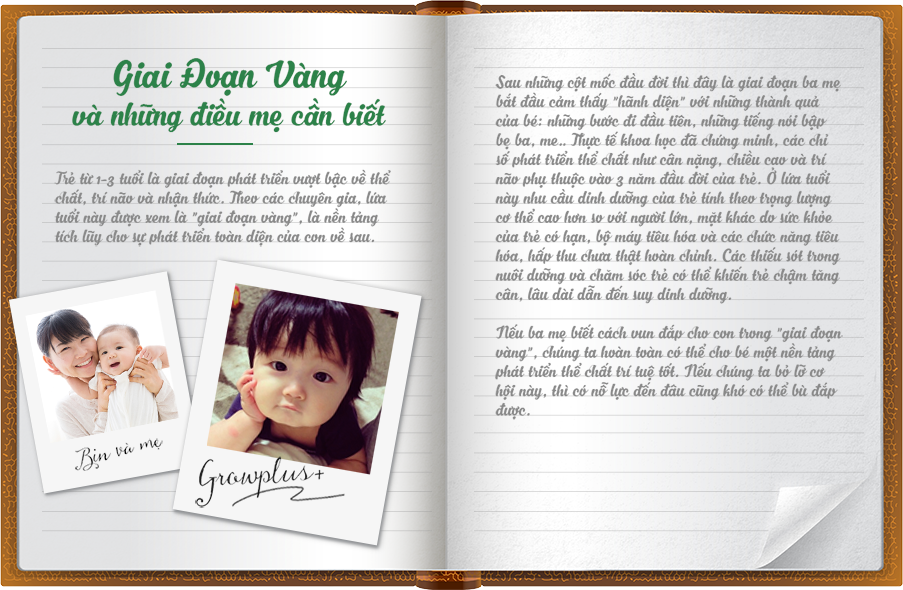
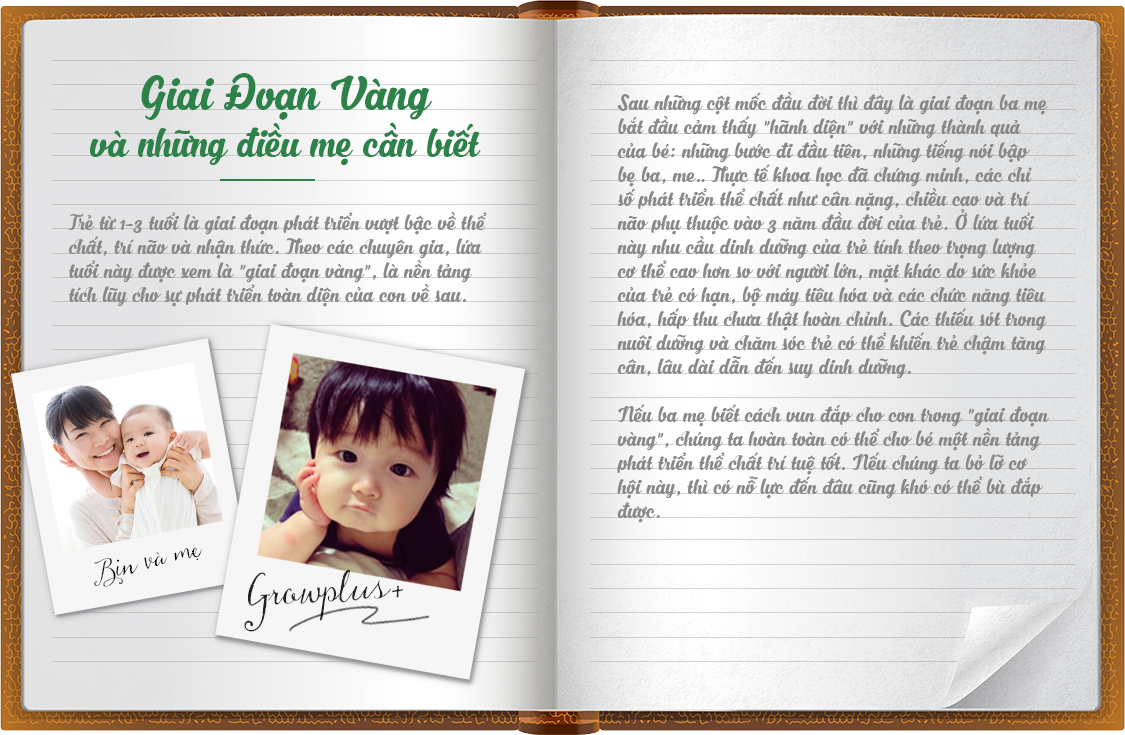
Update products link

diff --git a/less/golden-stage.less b/less/golden-stage.less
@@ -10,23 +10,76 @@
   background: transparent url(../images/golden-stage/expand.png) no-repeat;
 }
 
-.milk-product{
-  background: url("../images/golden-stage/milk-product.png") no-repeat center/ cover;
-  width: 279px;
-  height: 169px;
+.milk-product {
+  display: block;
+  bottom: 0;
+  left: 0;
   position: absolute;
-  bottom: -75px;
-  left: -155px;
-  z-index: 99;
-  &:after{
-    background: hsla(0, 0%, 0%, 0) url("../images/golden-stage/note2.png") no-repeat scroll center center / cover ;
+
+  &:before {
+    background: hsla(0, 0%, 0%, 0) url("../images/golden-stage/note2.png") no-repeat scroll center center / cover;
     content: "";
-    height: 72px;
-    left: 0;
-    position: absolute;
-    top: -50px;
-    width: 122px;
     display: block;
+    height: 72px;
+    left: -165px;
+    position: absolute;
+    top: -150px;
+    width: 122px;
+  }
+  .effect-after-milk {
+    background: hsla(0, 0%, 0%, 0) url("../images/golden-stage/after.png") no-repeat scroll 0 0;
+    height: 0;
+    left: -140px;
+    position: absolute;
+    bottom: -21px;
+    width: 280px;
+    z-index: 98;
+    display: block;
+    -webkit-transition: all 0.5s ease-out;
+    -moz-transition: all 0.5s ease-out;
+    -o-transition: all 0.5s ease-out;
+    transition: all 0.5s ease-out;
+  }
+  .milk {
+    background: hsla(0, 0%, 0%, 0) url("../images/golden-stage/milk-product.png") no-repeat scroll center center / cover;
+    bottom: -40px;
+    height: 150px;
+    left: -75px;
+    width: 124px;
+    position: absolute;
+    z-index: 99;
+  }
+  .effect-before-milk {
+    background: hsla(0, 0%, 0%, 0) url("../images/golden-stage/before.png") no-repeat scroll 0 0;
+    height: 0;
+    left: -140px;
+    position: absolute;
+    bottom: -50px;
+    width: 276px;
+    z-index: 100;
+    display: block;
+    -webkit-transition: all 0.2s ease-out;
+    -moz-transition: all 0.2s ease-out;
+    -o-transition: all 0.2s ease-out;
+    transition: all 0.2s ease-out;
+  }
+  &:hover {
+    .effect-after-milk{
+      height: 94px;
+      background-position: top left;
+      -webkit-transition: all 0.5s ease-out;
+      -moz-transition: all 0.5s ease-out;
+      -o-transition: all 0.5s ease-out;
+      transition: all 0.5s ease-out;
+    }
+    .effect-before-milk {
+      height: 94px;
+      background-position: top left;
+      -webkit-transition: all 0.2s ease-out;
+      -moz-transition: all 0.2s ease-out;
+      -o-transition: all 0.2s ease-out;
+      transition: all 0.2s ease-out;
+    }
   }
 }
 
@@ -146,13 +199,18 @@
     .page1 {
       padding: 50px 0 30px;
       font-size: 14px;
+
       img {
         width: 90%;
       }
     }
     .page2 {
       padding: 50px 0 30px;
-      font-size: 13px;
+      font-size: 14px;
+      .content-page {
+        padding: 10px 25px;
+        line-height: 19px;
+      }
     }
     .page3 {
       padding: 52px 0 30px;
@@ -235,7 +293,7 @@
         height: 590px;
         position: relative;
         background: transparent url(../images/golden-stage/bg.png) no-repeat left top;
-        .milk-product{
+        .milk-product {
           background: hsla(0, 0%, 0%, 0) url("../images/golden-stage/milk-product.png") no-repeat scroll center center / 100% auto;
           bottom: -60px;
           height: 120px;
@@ -243,7 +301,7 @@
           position: absolute;
           width: 170px;
           z-index: 99;
-          &:after{
+          &:after {
             display: none;
           }
         }

diff --git a/css/main.css b/css/main.css
@@ -1005,23 +1005,73 @@ textarea.has-error:-ms-input-placeholder {
   background: transparent url(../images/golden-stage/expand.png) no-repeat;
 }
 .milk-product {
-  background: url("../images/golden-stage/milk-product.png") no-repeat center / cover;
-  width: 279px;
-  height: 169px;
-  position: absolute;
-  bottom: -75px;
-  left: -155px;
-  z-index: 99;
-}
-.milk-product:after {
-  background: rgba(0, 0, 0, 0) url("../images/golden-stage/note2.png") no-repeat scroll center center / cover;
-  content: "";
-  height: 72px;
+  display: block;
+  bottom: 0;
   left: 0;
   position: absolute;
-  top: -50px;
-  width: 122px;
+}
+.milk-product:before {
+  background: rgba(0, 0, 0, 0) url("../images/golden-stage/note2.png") no-repeat scroll center center / cover;
+  content: "";
   display: block;
+  height: 72px;
+  left: -165px;
+  position: absolute;
+  top: -150px;
+  width: 122px;
+}
+.milk-product .effect-after-milk {
+  background: rgba(0, 0, 0, 0) url("../images/golden-stage/after.png") no-repeat scroll 0 0;
+  height: 0;
+  left: -140px;
+  position: absolute;
+  bottom: -21px;
+  width: 280px;
+  z-index: 98;
+  display: block;
+  -webkit-transition: all 0.5s ease-out;
+  -moz-transition: all 0.5s ease-out;
+  -o-transition: all 0.5s ease-out;
+  transition: all 0.5s ease-out;
+}
+.milk-product .milk {
+  background: rgba(0, 0, 0, 0) url("../images/golden-stage/milk-product.png") no-repeat scroll center center / cover;
+  bottom: -40px;
+  height: 150px;
+  left: -75px;
+  width: 124px;
+  position: absolute;
+  z-index: 99;
+}
+.milk-product .effect-before-milk {
+  background: rgba(0, 0, 0, 0) url("../images/golden-stage/before.png") no-repeat scroll 0 0;
+  height: 0;
+  left: -140px;
+  position: absolute;
+  bottom: -50px;
+  width: 276px;
+  z-index: 100;
+  display: block;
+  -webkit-transition: all 0.2s ease-out;
+  -moz-transition: all 0.2s ease-out;
+  -o-transition: all 0.2s ease-out;
+  transition: all 0.2s ease-out;
+}
+.milk-product:hover .effect-after-milk {
+  height: 94px;
+  background-position: top left;
+  -webkit-transition: all 0.5s ease-out;
+  -moz-transition: all 0.5s ease-out;
+  -o-transition: all 0.5s ease-out;
+  transition: all 0.5s ease-out;
+}
+.milk-product:hover .effect-before-milk {
+  height: 94px;
+  background-position: top left;
+  -webkit-transition: all 0.2s ease-out;
+  -moz-transition: all 0.2s ease-out;
+  -o-transition: all 0.2s ease-out;
+  transition: all 0.2s ease-out;
 }
 .modal-dialog .view_full_button {
   right: 30px;
@@ -1144,7 +1194,11 @@ textarea.has-error:-ms-input-placeholder {
 }
 #book-view .book_wrapper .page2 {
   padding: 50px 0 30px;
-  font-size: 13px;
+  font-size: 14px;
+}
+#book-view .book_wrapper .page2 .content-page {
+  padding: 10px 25px;
+  line-height: 19px;
 }
 #book-view .book_wrapper .page3 {
   padding: 52px 0 30px;

diff --git a/golden-stage.html b/golden-stage.html
@@ -66,7 +66,11 @@
   <div class="book_wrapper">
     <a id="next_page_button"></a>
     <a id="prev_page_button"></a>
-    <a href="#" class="milk-product"></a>
+    <a href="#" class="milk-product">
+      <span class="effect-after-milk"></span>
+      <span class="milk"></span>
+      <span class="effect-before-milk"></span>
+    </a>
     <div id="mybook" style="display:none;">
       <div class="b-load">
         <div>
@@ -229,7 +233,9 @@
     <div class="book-view">
       <a class="next_page_button"></a>
       <a class="prev_page_button"></a>
-      <a href="#" class="milk-product"></a>
+      <a href="#" class="milk-product">
+        <span class="effect-milk"></span>
+      </a>
       <div id="bookMobile" class="cs-hidden">
         <div>
           <div class="page1">
